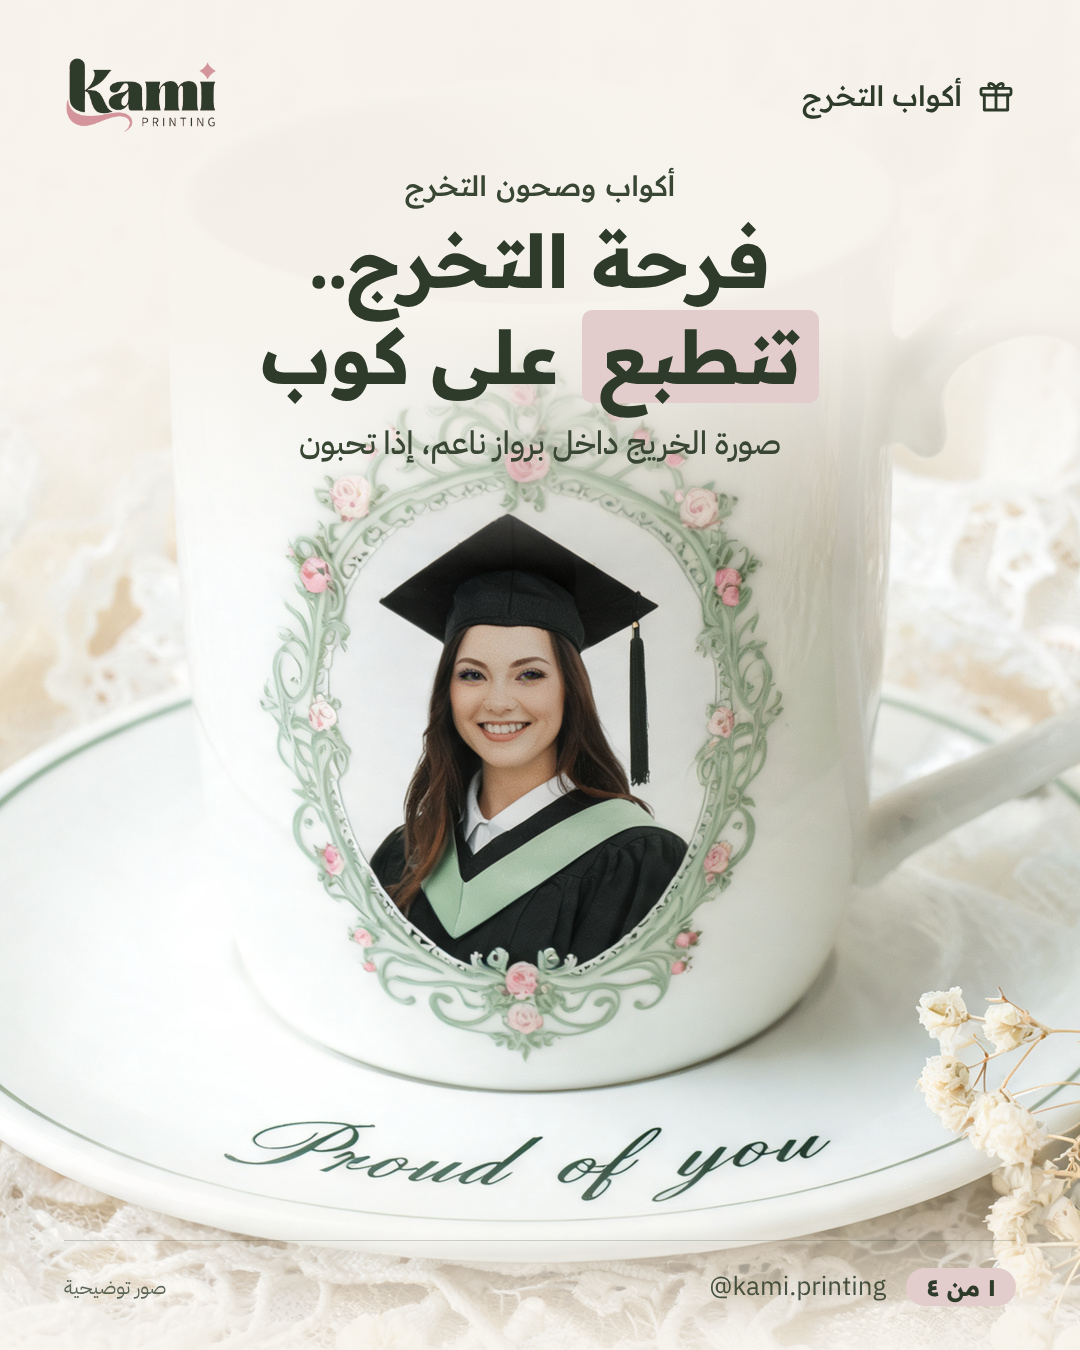
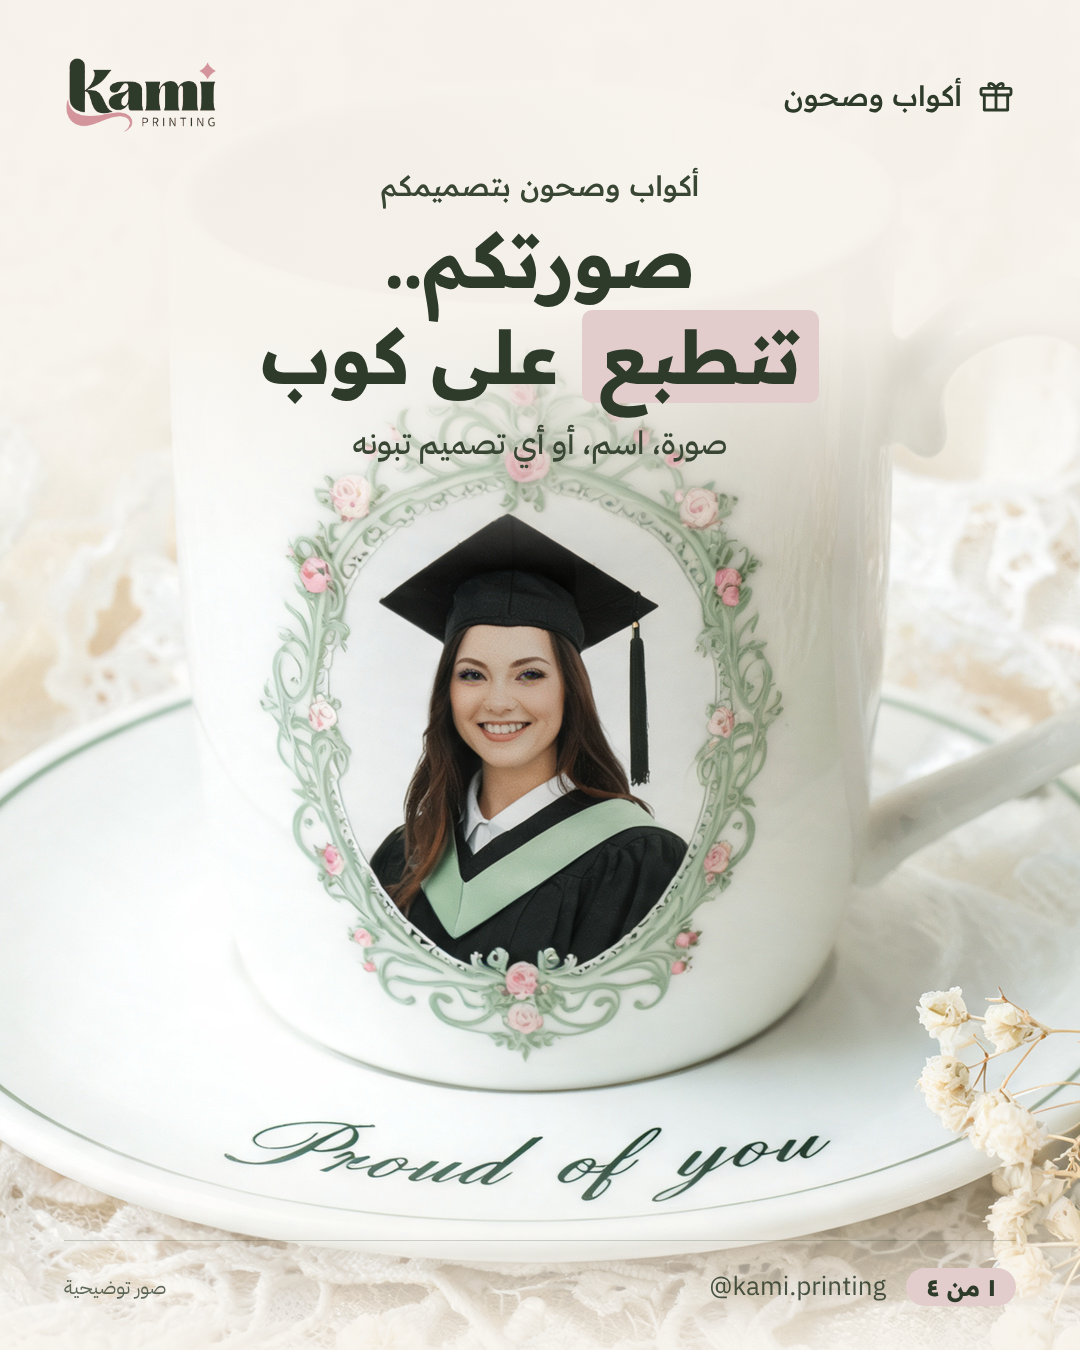
Cups & saucers carousel: open it to any custom design, fix saucer text placement (تعديل 1)
Claude-Session: https://claude.ai/code/session_01EDga3ExHWSoRVjSYima4hU

Changed region(s): [[0.275, 0.1244, 0.7333, 0.2489], [0.275, 0.3111, 0.7333, 0.3422], [0.7333, 0.0622, 0.825, 0.0933]]

diff --git a/templates/graduation-cups.html b/templates/graduation-cups.html
@@ -126,21 +126,21 @@ h2,.chip,.cnt,.kick,.wa span,.fw b{font-family:'Readex Pro','IBM Plex Sans Arabi
 <symbol id="wa" viewBox="0 0 24 24"><path d="M3.5 20.5l1.3-4A8.5 8.5 0 1 1 8 19.6z"/><path d="M9 8.8c.3 2.8 2.6 5.4 6 6.2l1.2-1.6-2-1-1 .8c-1-.5-2-1.5-2.4-2.4l.8-1-1-2z"/></symbol>
 </defs></svg>
 <section class="post ed" id="grad-01" style="background-image:url(photos/graduation/s1.jpg)">
-  <div class="veil"></div><header><img src="../brand/logo-en-green.png"><div class="chip"><svg class="ic"><use href="#gift"/></svg><span>أكواب التخرج</span></div></header>
-  <div class="txt"><div class="kick">أكواب وصحون التخرج</div><h2>فرحة التخرج..<br><span class="hl">تنطبع</span> على كوب</h2><div class="cap">صورة الخريج داخل برواز ناعم، إذا تحبون</div></div>
+  <div class="veil"></div><header><img src="../brand/logo-en-green.png"><div class="chip"><svg class="ic"><use href="#gift"/></svg><span>أكواب وصحون</span></div></header>
+  <div class="txt"><div class="kick">أكواب وصحون بتصميمكم</div><h2>صورتكم..<br><span class="hl">تنطبع</span> على كوب</h2><div class="cap">صورة، اسم، أو أي تصميم تبونه</div></div>
   <footer class="pf"><span class="note">صور توضيحية</span>
   <div class="fr"><span class="h">@kami.printing</span><span class="cnt">١ من ٤</span></div></footer></section><section class="post ed" id="grad-02" style="background-image:url(photos/graduation/s2.jpg)">
-  <div class="veil"></div><header><img src="../brand/logo-en-green.png"><div class="chip"><svg class="ic"><use href="#gift"/></svg><span>أكواب التخرج</span></div></header>
-  <div class="txt"><h2>عبارة <span class="hl">على ذوقكم</span></h2><div class="cap">بالعربي أو بالإنجليزي، على الكوب والصحن</div></div>
+  <div class="veil"></div><header><img src="../brand/logo-en-green.png"><div class="chip"><svg class="ic"><use href="#gift"/></svg><span>أكواب وصحون</span></div></header>
+  <div class="txt"><h2>عبارة <span class="hl">على ذوقكم</span></h2><div class="cap">تخرج، مواليد، أعياد ميلاد.. أو هدية بدون مناسبة</div></div>
   <footer class="pf"><span class="note">صور توضيحية</span>
   <div class="fr"><span class="h">@kami.printing</span><span class="cnt">٢ من ٤</span></div></footer></section><section class="post ed" id="grad-03" style="background-image:url(photos/graduation/s3.jpg)">
-  <div class="veil"></div><header><img src="../brand/logo-en-green.png"><div class="chip"><svg class="ic"><use href="#gift"/></svg><span>أكواب التخرج</span></div></header>
-  <div class="txt"><h2>وباسم <span class="hl">الخريج</span></h2><div class="cap">نكتب الاسم بالخط واللون اللي يعجبكم</div></div>
+  <div class="veil"></div><header><img src="../brand/logo-en-green.png"><div class="chip"><svg class="ic"><use href="#gift"/></svg><span>أكواب وصحون</span></div></header>
+  <div class="txt"><h2>وبالاسم <span class="hl">اللي تبونه</span></h2><div class="cap">نكتب الاسم بالخط واللون اللي يعجبكم</div></div>
   <footer class="pf"><span class="note">صور توضيحية</span>
   <div class="fr"><span class="h">@kami.printing</span><span class="cnt">٣ من ٤</span></div></footer></section><section class="post cta4" id="grad-04">
   <svg class="wm"><use href="#star"/></svg><svg class="wm2"><use href="#star"/></svg>
-  <header><img src="../brand/logo-en-cream.png"><div class="chip"><svg class="ic"><use href="#gift"/></svg><span>أكواب التخرج</span></div></header>
-  <div class="txt"><h2>نصمم وننفذ<br><span class="hl">على طلبكم</span></h2><div class="cap">أرسلوا الاسم والعبارة.. والصورة إذا تبونها</div></div>
+  <header><img src="../brand/logo-en-cream.png"><div class="chip"><svg class="ic"><use href="#gift"/></svg><span>أكواب وصحون</span></div></header>
+  <div class="txt"><h2>نصمم وننفذ<br><span class="hl">على طلبكم</span></h2><div class="cap">أرسلوا الصورة أو الاسم أو فكرتكم.. والباقي علينا</div></div>
   <div class="frame"><img src="photos/graduation/s4.jpg"></div>
   <div class="wa"><svg class="wai"><use href="#wa"/></svg><span>66606959</span></div>
   <footer><span class="h">للطلب والاستفسار واتساب</span>

diff --git a/templates/graduation_cups.py b/templates/graduation_cups.py
@@ -1,6 +1,7 @@
-"""Graduation cups & saucers carousel (4 slides, 1080x1350), editorial photo style.
+"""Custom cups & saucers carousel (photo, name or any design; graduation is one example) (4 slides, 1080x1350), editorial photo style.
 Photos: AI mockups (ElevenLabs Seedream 5 Lite) in templates/photos/graduation/: g1-ar.png is g1 with the
 misspelled English saucer text removed and «مبروك التخرج» (Amiri) printed along the rim.
+Saucer text on g1-ar.png: python3 templates/saucer_text.py <text.png> (Amiri 400, along the front rim).
 Render:
   python3 templates/graduation_cups.py && PAGE=graduation-cups.html OUTDIR=out/graduation node templates/render.js
 """
@@ -33,7 +34,7 @@ Image.open(os.path.join(PH, 'g3.png')).convert('RGB').resize((FW, round(FW * 144
     .crop((0, 0, FW, FH)).save(os.path.join(PH, 's4.jpg'), quality=95, subsampling=0)
 
 N = 4
-TAG = 'أكواب التخرج'
+TAG = 'أكواب وصحون'
 
 
 def head(logo='logo-en-green.png'):
@@ -56,7 +57,7 @@ def cta(i):
     return f'''<section class="post cta4" id="grad-{i:02d}">
   <svg class="wm"><use href="#star"/></svg><svg class="wm2"><use href="#star"/></svg>
   <header><img src="../brand/logo-en-cream.png"><div class="chip">{icon("gift")}<span>{TAG}</span></div></header>
-  <div class="txt"><h2>نصمم وننفذ<br>{hl("[[على طلبكم]]")}</h2><div class="cap">أرسلوا الاسم والعبارة.. والصورة إذا تبونها</div></div>
+  <div class="txt"><h2>نصمم وننفذ<br>{hl("[[على طلبكم]]")}</h2><div class="cap">أرسلوا الصورة أو الاسم أو فكرتكم.. والباقي علينا</div></div>
   <div class="frame"><img src="photos/graduation/s4.jpg"></div>
   <div class="wa">{icon("wa", "wai")}<span>66606959</span></div>
   <footer><span class="h">للطلب والاستفسار واتساب</span>
@@ -64,9 +65,9 @@ def cta(i):
 
 
 SLIDES = [
-    photo(1, 's1.jpg', 'أكواب وصحون التخرج', 'فرحة التخرج..<br>[[تنطبع]] على كوب', 'صورة الخريج داخل برواز ناعم، إذا تحبون'),
-    photo(2, 's2.jpg', '', 'عبارة [[على ذوقكم]]', 'بالعربي أو بالإنجليزي، على الكوب والصحن'),
-    photo(3, 's3.jpg', '', 'وباسم [[الخريج]]', 'نكتب الاسم بالخط واللون اللي يعجبكم'),
+    photo(1, 's1.jpg', 'أكواب وصحون بتصميمكم', 'صورتكم..<br>[[تنطبع]] على كوب', 'صورة، اسم، أو أي تصميم تبونه'),
+    photo(2, 's2.jpg', '', 'عبارة [[على ذوقكم]]', 'تخرج، مواليد، أعياد ميلاد.. أو هدية بدون مناسبة'),
+    photo(3, 's3.jpg', '', 'وبالاسم [[اللي تبونه]]', 'نكتب الاسم بالخط واللون اللي يعجبكم'),
     cta(4),
 ]
 

diff --git a/templates/saucer_text.py b/templates/saucer_text.py
@@ -1,0 +1,40 @@
+"""Print a text PNG along the front rim of the saucer in g1-clean.png (graduation carousel, slide 2).
+  python3 templates/saucer_text.py <text.png>   -> templates/photos/graduation/g1-ar.png
+The rim is an ellipse centred (1245, 900), a=465, b=210 (inside the outer edge); text runs from 165° to 100°.
+"""
+import math, os, sys
+import numpy as np
+from PIL import Image, ImageFilter
+
+PH = os.path.join(os.path.dirname(os.path.abspath(__file__)), 'photos/graduation')
+CX, CY, A, B = 1245, 900, 465, 210
+T0, T1, HEIGHT = 168, 97, 92  # degrees; glyph height in px
+
+base = Image.open(os.path.join(PH, 'g1-clean.png')).convert('RGB')
+t = Image.open(sys.argv[1]).convert('RGBA'); t = t.crop(t.getbbox())
+th = np.radians(np.linspace(T0, T1, 2000))
+pts = np.c_[CX + A * np.cos(th), CY + B * np.sin(th)]
+seg = np.r_[0, np.cumsum(np.linalg.norm(np.diff(pts, axis=0), axis=1))]
+k = HEIGHT / t.height; t = t.resize((round(t.width * k), HEIGHT), Image.LANCZOS)
+scale = min(1, seg[-1] / t.width)
+if scale < 1:
+    t = t.resize((round(t.width * scale), round(t.height * scale)), Image.LANCZOS)
+start = (seg[-1] - t.width) / 2
+alpha = np.array(t)[:, :, 3]
+layer = np.zeros((base.height, base.width), np.float32)
+N = max(40, t.width // 4)
+for i in range(N):
+    xs, xe = int(i * t.width / N), int(min(t.width, (i + 1) * t.width / N + 2))
+    s = start + (xs + xe) / 2
+    j = int(np.clip(np.searchsorted(seg, s), 1, len(seg) - 1))
+    p = pts[j]; d = pts[j] - pts[j - 1]
+    ang = math.degrees(math.atan2(d[1], d[0]))
+    sl = Image.fromarray(alpha[:, xs:xe]).rotate(-ang, resample=Image.BICUBIC, expand=True)
+    x, y = int(p[0] - sl.width / 2), int(p[1] - sl.height / 2)
+    a = np.array(sl, np.float32)
+    layer[y:y + a.shape[0], x:x + a.shape[1]] = np.maximum(layer[y:y + a.shape[0], x:x + a.shape[1]], a)
+lay = Image.fromarray(layer.astype(np.uint8)).filter(ImageFilter.GaussianBlur(0.6))
+al = np.array(lay, np.float32)[..., None] / 255 * 0.9
+img = np.array(base, np.float32); ink = np.array([44, 74, 51], np.float32)
+Image.fromarray((img * (1 - al) + ink * al).astype(np.uint8)).save(os.path.join(PH, 'g1-ar.png'))
+print('ok', t.size, round(seg[-1]))

diff --git a/فهرس-التصاميم.md b/فهرس-التصاميم.md
@@ -199,7 +199,7 @@
 | 10 | `10-الأسئلة-الشائعة` | كاروسيل الأسئلة |
 | 11 | `11-مطبوعات-المشاريع` | 10 سلايدات: ستيكرات الشعار وUV، بطاقات الشكر، بزنس كارد، قصاصات قطنية، علب مطوية. بثيم القسم 1 (تعديل 1، 2026-11-17). المصدر `templates/packaging_carousel.py` |
 | 12 | `12-ستوري-أصحاب-المشاريع` (آخر نسخة: تعديل 1) | ستوري 1080×1920 لأصحاب المشاريع: «نصمم وننفذ فكرتكم» و«من أول رسمة.. لين توصل بين إيدينكم»، صورة أكواب الشتاء من شغلنا داخل إطار كريمي مع شارة «من شغلنا»، وزر «أرسلوا لنا فكرتكم.. والباقي علينا»، والواتساب تحت. المصدر `templates/project_story.py` |
-| 13 | `13-أكواب-التخرج` | كاروسيل 4 صور بستايل صور المنتج الناعمة (مفرش أبيض ودانتيل)، مستوحى من بوست أكواب خريجات: 01 «فرحة التخرج.. تنطبع على كوب» بصورة الخريج داخل برواز، 02 «عبارة على ذوقكم» وعلى الصحن «مبروك التخرج»، 03 «وباسم الخريج»، 04 «نصمم وننفذ على طلبكم» على ثيم القسم 1 مع زر الواتساب. بدون سعر. الصور توضيحية مولّدة بالذكاء الاصطناعي (مكتوب عليها «صور توضيحية»). المصدر `templates/graduation_cups.py` |
+| 13 | `13-أكواب-التخرج` (آخر نسخة: تعديل 1) | كاروسيل 4 صور «أكواب وصحون بتصميمكم» بستايل صور المنتج الناعمة (مفرش أبيض ودانتيل)، لأي أحد يبي صورته أو اسمه أو أي تصميم، والتخرج مثال بس: 01 «صورتكم.. تنطبع على كوب»، 02 «عبارة على ذوقكم» (تخرج، مواليد، أعياد ميلاد، هدية) وعلى طرف الصحن «مبروك التخرج»، 03 «وبالاسم اللي تبونه»، 04 «نصمم وننفذ على طلبكم» على ثيم القسم 1 مع زر الواتساب. بدون سعر. الصور توضيحية مولّدة بالذكاء الاصطناعي. المصدر `templates/graduation_cups.py` والكتابة على الصحن `templates/saucer_text.py` |
 
 ### الريلز الجاهزة (`جاهز/`)
 كل ريل له فيديو وغلاف وغلاف للشبكة وكابشن. حقوق المقاطع في `حقوق المقاطع.txt`.
@@ -248,6 +248,7 @@
 ## 7. سجل التعديلات
 | التاريخ | التصميم | التعديل | المجلد |
 |---|---|---|---|
+| 2026-11-19 | أكواب التخرج ← أكواب وصحون | صار الكلام عام لأي أحد يبي صورته أو اسمه أو أي تصميم، مو بس للخريجين (العناوين والكابشن والشارة فوق «أكواب وصحون»). و«مبروك التخرج» انتقلت لطرف الصحن من قدّام، أصغر وتمشي مع انحناءته بخط أميري | `instagram/ready-to-post/13-أكواب-التخرج/تعديل 1/` |
 | 2026-11-19 | أكواب التخرج (جديد) | كاروسيل 4 صور لأكواب وصحون التخرج بالكتابة وصورة الخريج، بستايل بوست مرجعي بس بألوان كامي. الصور مولّدة (ElevenLabs Seedream، 3 صور)، وكتابة «Congrats» اللي طلعت غلط على الصحن مسحناها وكتبنا بدالها «مبروك التخرج» بخط أميري | `instagram/ready-to-post/13-أكواب-التخرج/` |
 | 2026-11-19 | ستيكرات شتوية كريكت | صفحتين على مقاس كريكت لورق A4 (18 × 26.5 سم، والحد الأقصى 18.3 × 26.98)، بخلفية شفافة. أضفنا حد أبيض موحّد لكل ستيكر عشان كريكت يقصه قطعة وحدة (حتى العبارات والقلوب الطايرة)، ورتبناها بحيث تطلع صفحتين بدال 3 | `ستيكرات شتوية كريكت\تعديل 2 - كريكت A4\` + `brand/stickers/winter-cozy/كريكت-A4/` |
 | 2026-11-19 | ستيكرات شتوية كريكت | نفس الـ48 ستيكر بمقاسات الطباعة: الكبيرة 4.5 سم والصغيرة 3 سم (ندف الثلج والقلوب البنية)، مكبّرة بالذكاء الاصطناعي بدقة 300 DPI، وصفحتين A4 جاهزة للطباعة | `ستيكرات شتوية كريكت\تعديل 1 - مقاسات 4.5 و 3 سم\` + `brand/stickers/winter-cozy/` |
